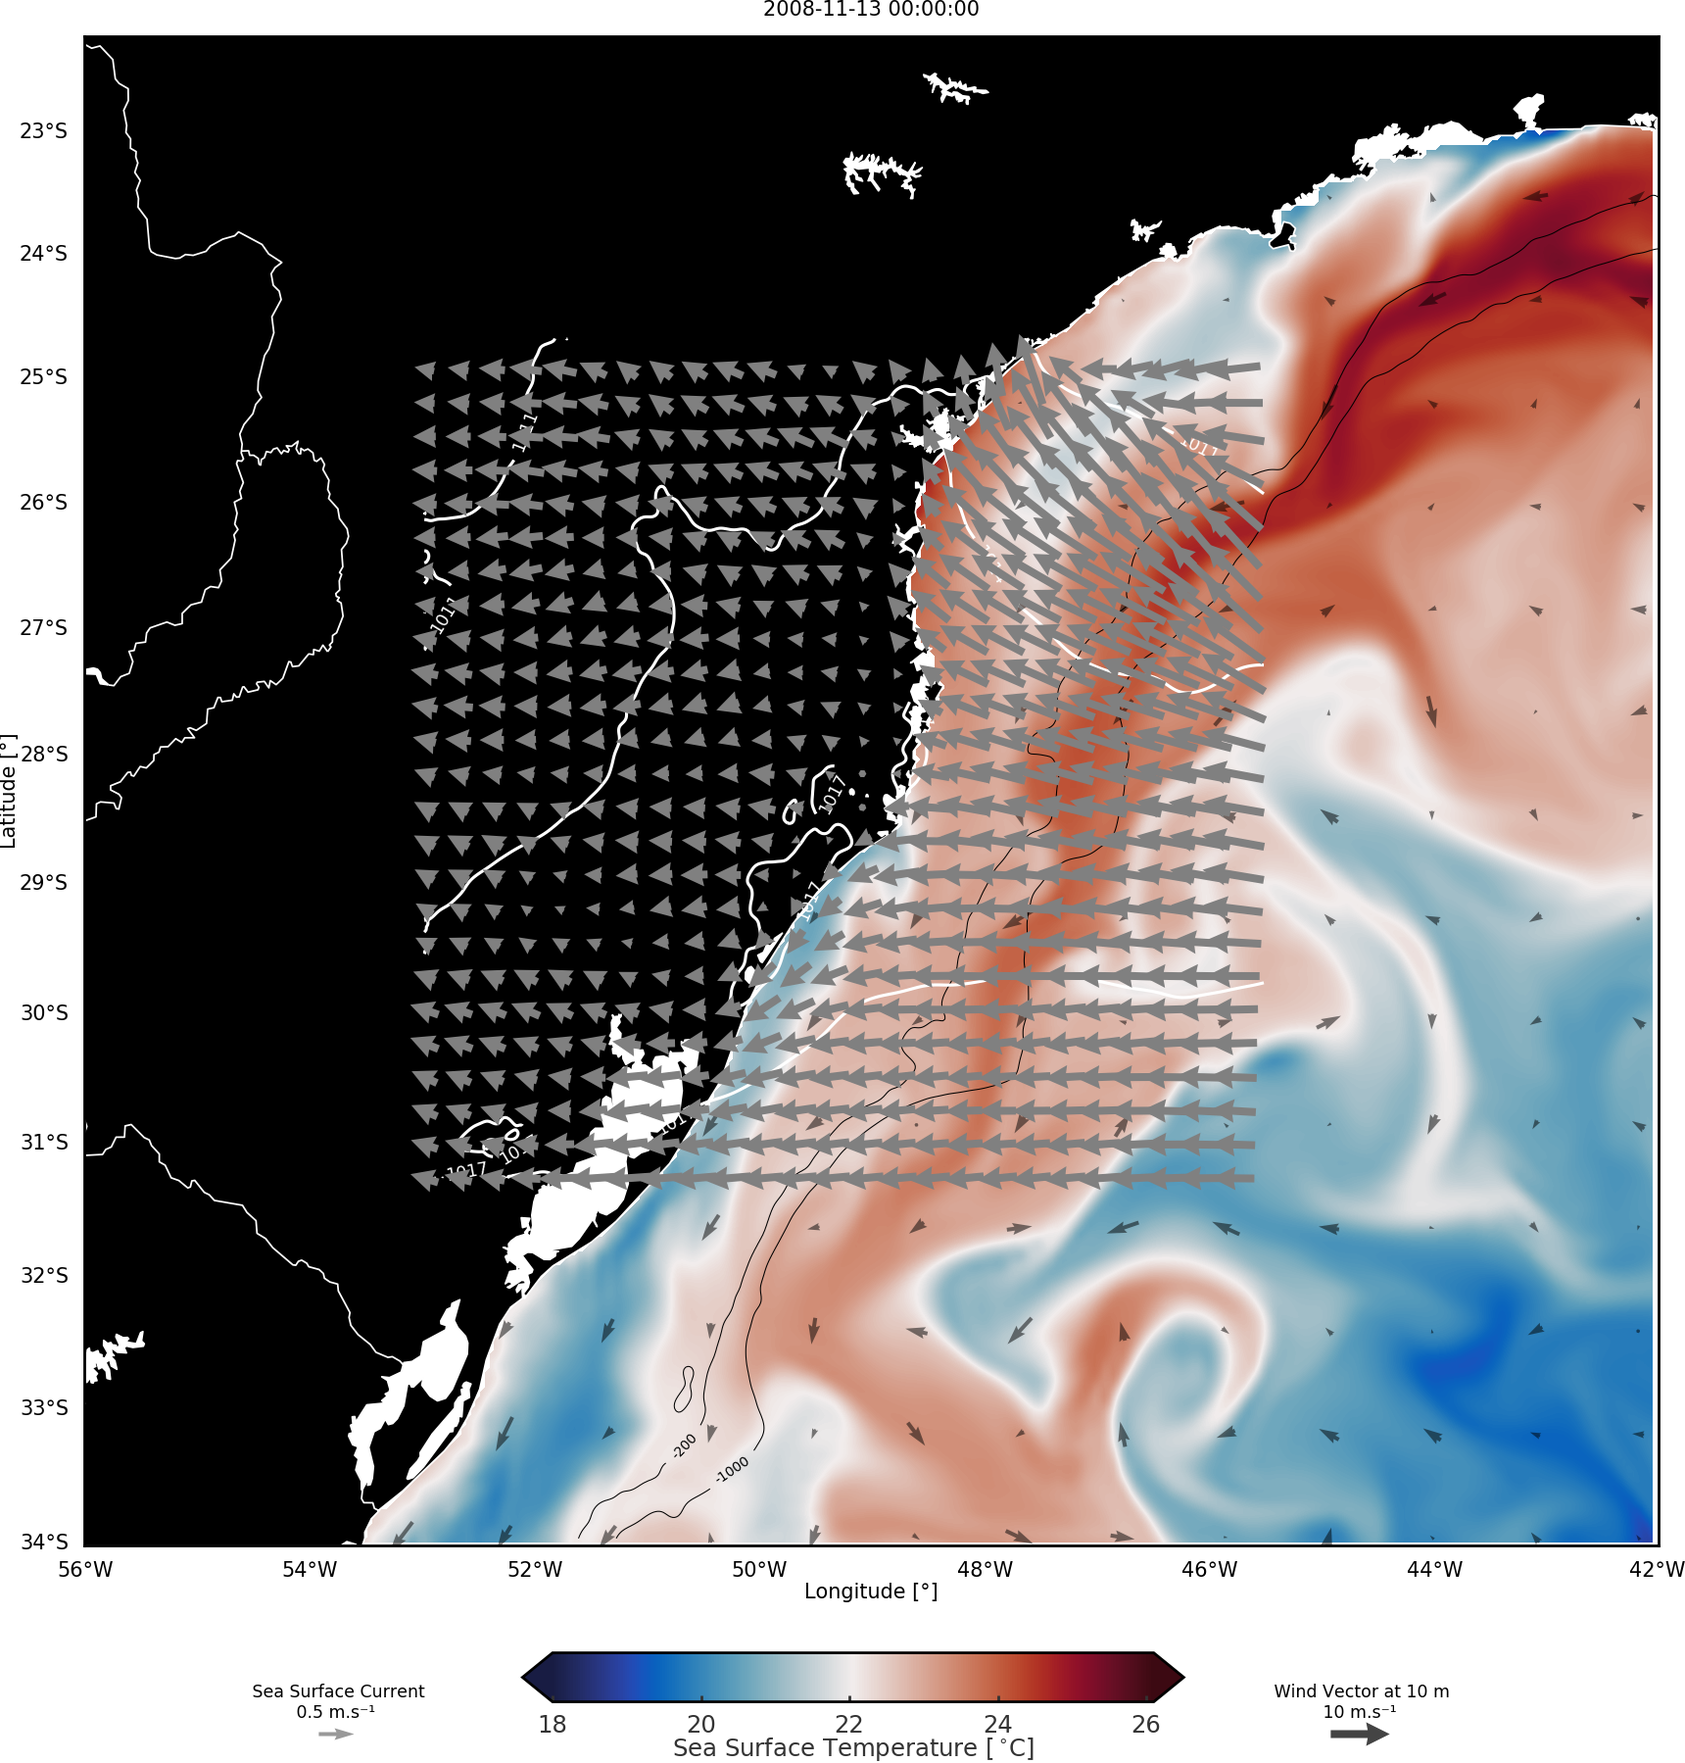
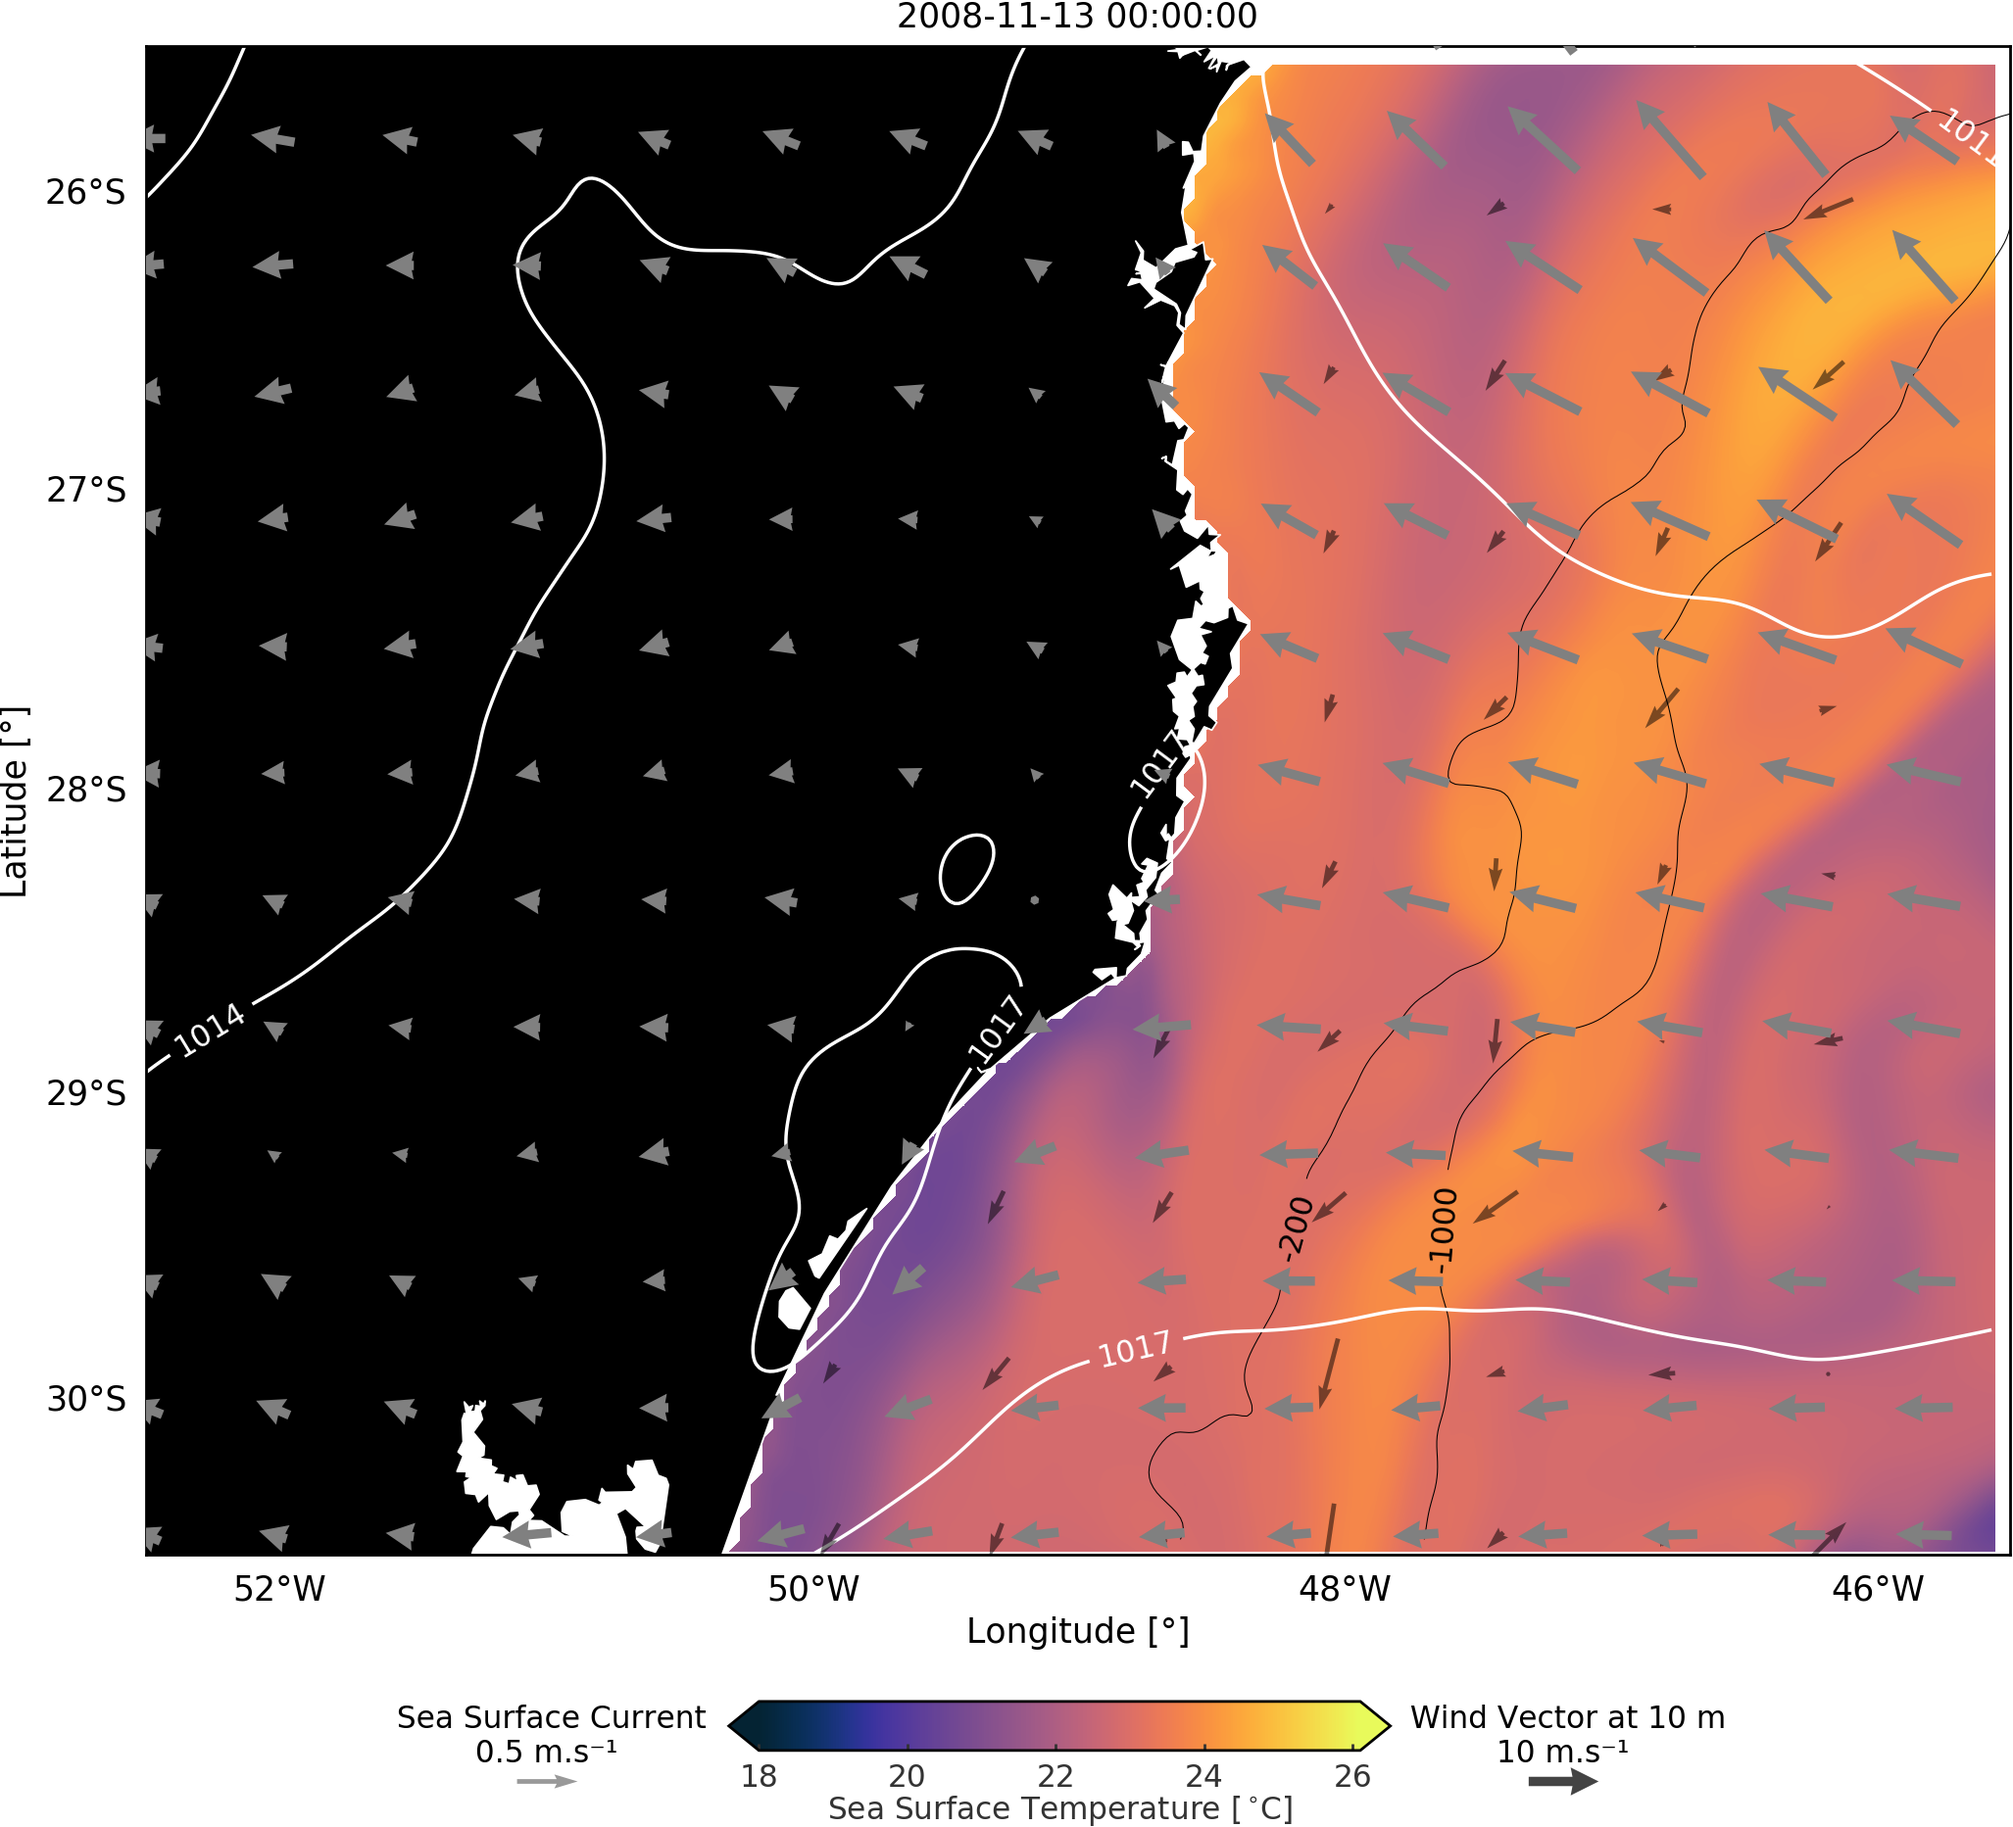
pdating

diff --git a/horizontal_wrf_roms.py b/horizontal_wrf_roms.py
@@ -79,7 +79,7 @@ if project=='1':
     if exp=='11':
         roms_file = '/media/ueslei/Ueslei/INPE/PCI/Projetos/SC_2008/Outputs/warm_100/roms.nc'
         wrf_file  = '/media/ueslei/Ueslei/INPE/PCI/Projetos/SC_2008/Outputs/warm_100/wrf.nc' 
-    bbox          = [-52.5, -45.5, -30.5., -25.5]
+    bbox          = [-52.5, -45.5, -30.5, -25.5]
     initloop      = 144
     zlev          = -1 # Last sigma layer corresponds to surface.
     plot_var      = True 
@@ -87,7 +87,7 @@ if project=='1':
     plot_currents = True
     plot_wind     = True
     plot_slp      = True
-    create_video  = True
+    create_video  = False
     ppt_fig       = False # If True, it will generate a figure with transparent background.
     nc_roms       = netCDF4.Dataset(roms_file)
     nc_wrf        = netCDF4.Dataset(wrf_file)
@@ -179,7 +179,7 @@ for i in range(0,ntimes,3):
             var         = nc_roms.variables['temp'][i, zlev,  j0:j1, i0:i1]
             clevs       = np.arange(18,26.1,0.01)
             ticks       = np.arange(min(clevs),max(clevs),2)  
-            cmap        = cmocean.cm.balance    # matplotlib.pyplot.jet() 
+            cmap        = cmocean.cm.thermal   
         if project=='2' and contourf_var=='2':
             lon_rho     = nc_roms.variables['lon_rho'][:]
             lat_rho     = nc_roms.variables['lat_rho'][:]
@@ -251,18 +251,18 @@ for i in range(0,ntimes,3):
             lat_1=-45.,lat_2=-65,lat_0=-65,lon_0=-35.)     
     fig  = plt.figure(1,figsize=(10,8))
     if project=='1' or project=='2':
-        plt.xlabel('Longitude'u' [\N{DEGREE SIGN}]',labelpad=11,size=6)
-        plt.ylabel('Latitude'u' [\N{DEGREE SIGN}]',labelpad=19,size=6)
+        plt.xlabel('Longitude'u' [\N{DEGREE SIGN}]',labelpad=18,size=10)
+        plt.ylabel('Latitude'u' [\N{DEGREE SIGN}]',labelpad=33,size=10)
     ax   = fig.add_subplot(111)
     if project=='1' or project=='2':
-        plt.title(timestr, fontsize=6)
+        plt.title(timestr, fontsize=10)
     if project=='3':
         plt.title(timestr, fontsize=9, pad=25)
         
     # 3.3. Add coastline, continents and lat/lon.
     if project=='1':
-        m.drawparallels(np.arange(-90.,120.,1.), linewidth=0.00, color='black', labels=[1,0,0,1],labelstyle="N/S",fontsize=6)
-        m.drawmeridians(np.arange(-180.,180.,2.), linewidth=0.00,color='black', labels=[1,0,0,1],labelstyle="N/S",fontsize=6)
+        m.drawparallels(np.arange(-90.,120.,1.), linewidth=0.00, color='black', labels=[1,0,0,1],labelstyle="N/S",fontsize=10)
+        m.drawmeridians(np.arange(-180.,180.,2.), linewidth=0.00,color='black', labels=[1,0,0,1],labelstyle="N/S",fontsize=10)
     if project=='2':
         m.drawparallels(np.arange(-90.,120.,5), linewidth=0.00, color='black', labels=[1,0,0,1],labelstyle="N/S",fontsize=6)
         m.drawmeridians(np.arange(-180.,180.,5), linewidth=0.00,color='black', labels=[1,0,0,1],labelstyle="N/S",fontsize=6)
@@ -281,8 +281,8 @@ for i in range(0,ntimes,3):
     if plot_currents==True:
         x_rho, y_rho = m(lon,lat)
         if project=='1':
-            nsub  = 22
-            scale = 0.045
+            nsub  = 15
+            scale = 0.065
         if project=='2':
             nsub  = 20
             scale = 0.03
@@ -291,7 +291,7 @@ for i in range(0,ntimes,3):
             scale = 0.07          
         C = ax.quiver(x_rho[::nsub,::nsub],y_rho[::nsub,::nsub],u[::nsub,::nsub],v[::nsub,::nsub],alpha=0.5,scale=1/scale, zorder=1e35, width=0.0025,color='black',pivot='middle')
         if project=='1':
-            qk = ax.quiverkey(C, .16, -0.125, 0.5, ' Sea Surface Current\n 0.5 m.s⁻¹ ', coordinates='axes',color='black',labelsep=0.05, labelcolor='black',alpha=0.4,fontproperties={'size': '5'})
+            qk = ax.quiverkey(C, .215, -0.15, 0.5, ' Sea Surface Current\n 0.5 m.s⁻¹ ', coordinates='axes',color='black',labelsep=0.05, labelcolor='black',alpha=0.4,fontproperties={'size': '9'})
         if project=='2':
             qk = ax.quiverkey(C, .22, -0.25, 0.5, ' Sea Surface Current\n 0.5 m.s⁻¹ ', coordinates='axes',color='black',labelsep=0.05, labelcolor='black',alpha=0.4,fontproperties={'size': '5'})
         if project=='3':
@@ -300,7 +300,7 @@ for i in range(0,ntimes,3):
     if plot_wind==True:
         x, y    = m(to_np(lons_wrf), to_np(lats_wrf))
         if project=='1':
-            spacing = 22
+            spacing = 35
             scale   = 0.03
         if project=='2':
             spacing = 40
@@ -310,7 +310,7 @@ for i in range(0,ntimes,3):
             scale   = 0.02
         W = ax.quiver(x[::spacing,::spacing], y[::spacing,::spacing], to_np(uvmet10[0,::spacing, ::spacing]),to_np(uvmet10[1,::spacing, ::spacing]),pivot='middle',scale=8/scale, zorder=1e35, width=0.005,color='gray',headlength=3, headaxislength=2.8 )
         if project=='1':
-            wk = ax.quiverkey(W, 0.81, -0.125, 10, ' Wind Vector at 10 m\n 10 m.s⁻¹ ', coordinates='axes',color='#444444',labelsep=0.05, labelcolor='black',fontproperties={'size': '5'})
+            wk = ax.quiverkey(W, 0.76, -0.15, 10, ' Wind Vector at 10 m\n 10 m.s⁻¹ ', coordinates='axes',color='#444444',labelsep=0.05, labelcolor='black',fontproperties={'size': '9'})
         if project=='2':
             wk = ax.quiverkey(W, .75, -.25, 10, ' Wind Vector at 10 m\n 10 m.s⁻¹ ', coordinates='axes',color='#444444',labelsep=0.05, labelcolor='black',fontproperties={'size': '5'})
         if project=='3':
@@ -321,27 +321,27 @@ for i in range(0,ntimes,3):
         bathy_levels     = [-1000,-200]
         bLON,bLAT,BAT    = download_bathy(lnd=bbox[0],lnu=-39,ltd=bbox[2],ltu=bbox[3])
         Ct               = m.contour(gaussian_filter(bLON,3),gaussian_filter(bLAT,3),gaussian_filter(BAT,3),bathy_levels,colors='black',latlon=True,linewidths=0.3,linestyles='solid')
-        manual_locations = [(554743,64375), (517235,81424)]
-        clbls            = plt.clabel(Ct,fmt='%i', fontsize=4,manual=manual_locations)
+        manual_locations = [(470976,117920), (418411,117920)]
+        clbls            = plt.clabel(Ct,fmt='%i', fontsize=9,manual=manual_locations)
 
     # 3.7. Plot the desired countour variable and add some plot resources.
     if plot_slp==True:
         x_slp, y_slp = m(to_np(lons_wrf), to_np(lats_wrf))
-        Ct_slp       = ax.contour(gaussian_filter(x_slp,0),gaussian_filter(y_slp,0),gaussian_filter(to_np(slp),0),clevs_slp,colors='white',latlon=True,linewidths=0.9,linestyles='solid')
-        clbls_slp    = plt.clabel(Ct_slp,fmt='%i',inline=1, fontsize=5)
+        Ct_slp       = ax.contour(gaussian_filter(x_slp,6),gaussian_filter(y_slp,6),gaussian_filter(to_np(slp),6),clevs_slp,colors='white',latlon=True,linewidths=1,linestyles='solid')
+        clbls_slp    = plt.clabel(Ct_slp,fmt='%i',inline=1, fontsize=9)
 
     if plot_var==True:
         if contourf_var=='1':
             h1  = m.contourf(lon_var, lat_var, var, clevs,latlon=True,cmap=cmap,extend="both")  
             if project=='1':
-                cax = fig.add_axes([0.37, 0.03, 0.27, 0.025])   
+                cax = fig.add_axes([0.37, 0.01, 0.27, 0.025])   
             if project=='2':
                 cax = fig.add_axes([0.37, 0.196, 0.27, 0.025])       
             if project=='3':
                 cax = fig.add_axes([0.37, 0.08, 0.27, 0.025])                  
             cb  = fig.colorbar(h1, cax=cax, orientation="horizontal",panchor=(0.5,0.5),shrink=0.3,ticks=ticks)
-            cb.set_label(r'Sea Surface Temperature [$^\circ\!$C]', fontsize=7, color='0.2',labelpad=-0.5)
-            cb.ax.tick_params(labelsize=7, length=2, color='0.2', labelcolor='0.2',direction='in') 
+            cb.set_label(r'Sea Surface Temperature [$^\circ\!$C]', fontsize=9, color='0.2',labelpad=0)
+            cb.ax.tick_params(labelsize=9, length=2, color='0.2', labelcolor='0.2',direction='in') 
             cb.set_ticks(ticks)
 
         if contourf_var=='2':
